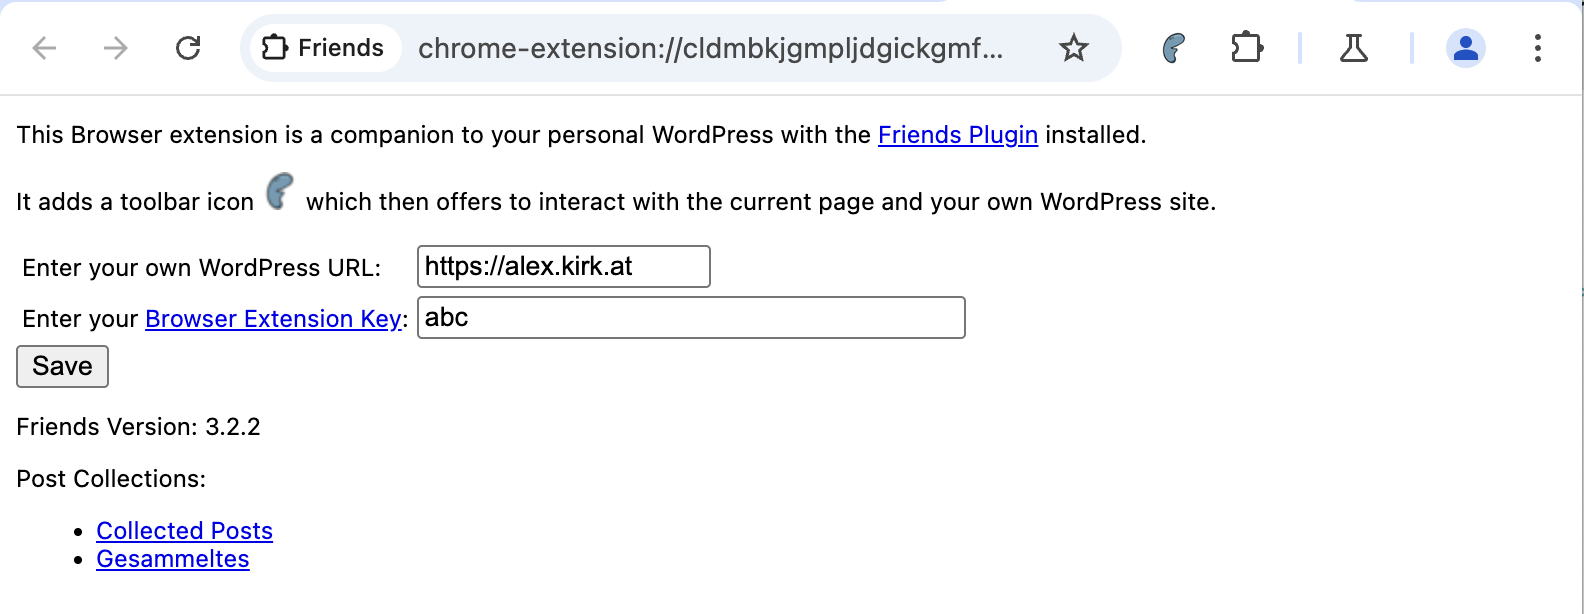
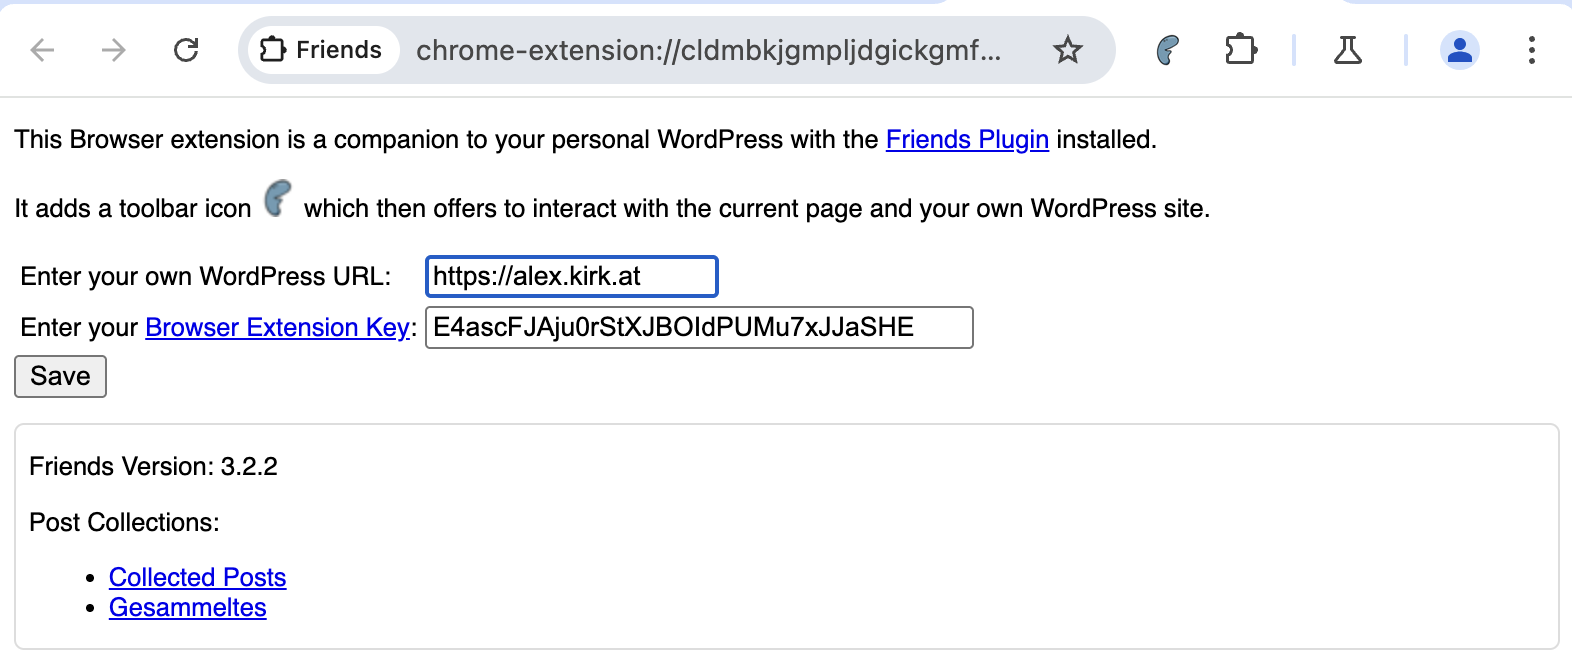
Styling

diff --git a/settings/options.html b/settings/options.html
@@ -1,28 +1,39 @@
 <!DOCTYPE html>
 
 <html>
-  <head>
-    <meta charset="utf-8">
-    <meta name="color-scheme" content="dark light">
-    <style>
-      #note {
-        background-color: #f9f9f9;
-        padding: 10px;
-        border-radius: 5px;
-        margin-bottom: 10px;
-        display: none;
-      }
-      form {
-        margin-top: 1em;
-      }
-      #apiKey {
-        width: 20em;
-      }
-    </style>
-  </head>
+<head>
+  <meta charset="utf-8">
+  <meta name="color-scheme" content="dark light">
+  <style>
+    body {
+      font-family: sans-serif;
+      font-size: .8em;
+    }
 
-  <body>
-    <form>
+    #note {
+      background-color: #f9f9f9;
+      padding: 10px;
+      border-radius: 5px;
+      margin-bottom: 10px;
+      display: none;
+    }
+    form {
+      margin-top: 1em;
+    }
+    #apiKey {
+      width: 20em;
+    }
+    #site-info {
+      border: 1px solid #ddd;
+      border-radius: 5px;
+      margin-top: 1em;
+      padding: 0 .5em;
+    }
+  </style>
+</head>
+
+<body>
+  <form>
     <p id="note"></p>
     <p>This Browser extension is a companion to your personal WordPress with the <a href="https://wordpress.org/plugins/friends/" target="_blank">Friends Plugin</a> installed.</p>
     <p>It adds a toolbar icon <img id="icon" src=""> which then offers to interact with the current page and your own WordPress site.</p>
@@ -37,15 +48,17 @@
       </tr>
     </table>
     <button id="save">Save</button>
-    </form>
+  </form>
+  <div id="site-info">
     <p id="friendsVersion"></p>
 
     <div id="postCollectionsHolder" style="display: none">
-    <p>Post Collections:</p>
-    <ul id="postCollections"></ul>
+      <p>Post Collections:</p>
+      <ul id="postCollections"></ul>
     </div>
-    <script src="options.js"></script>
+  </div>
+  <script src="options.js"></script>
 
-  </body>
+</body>
 
 </html>
